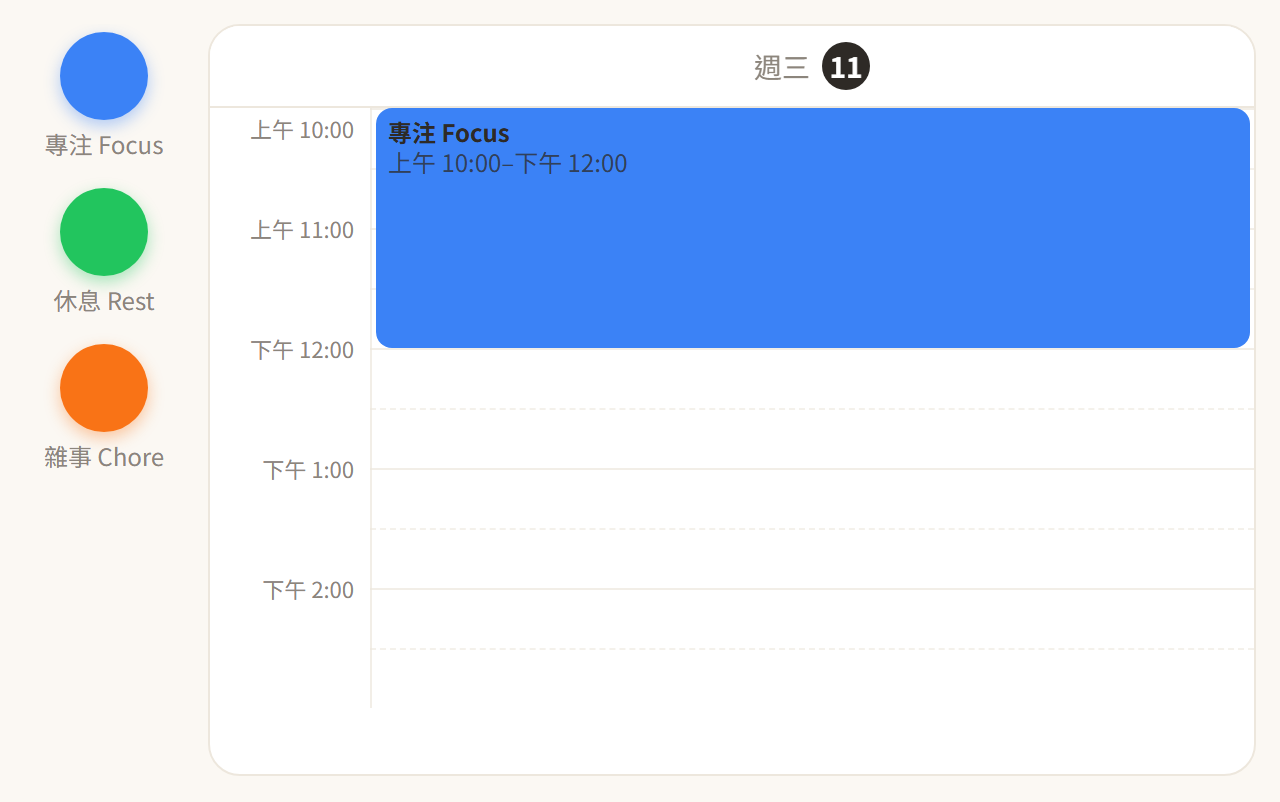
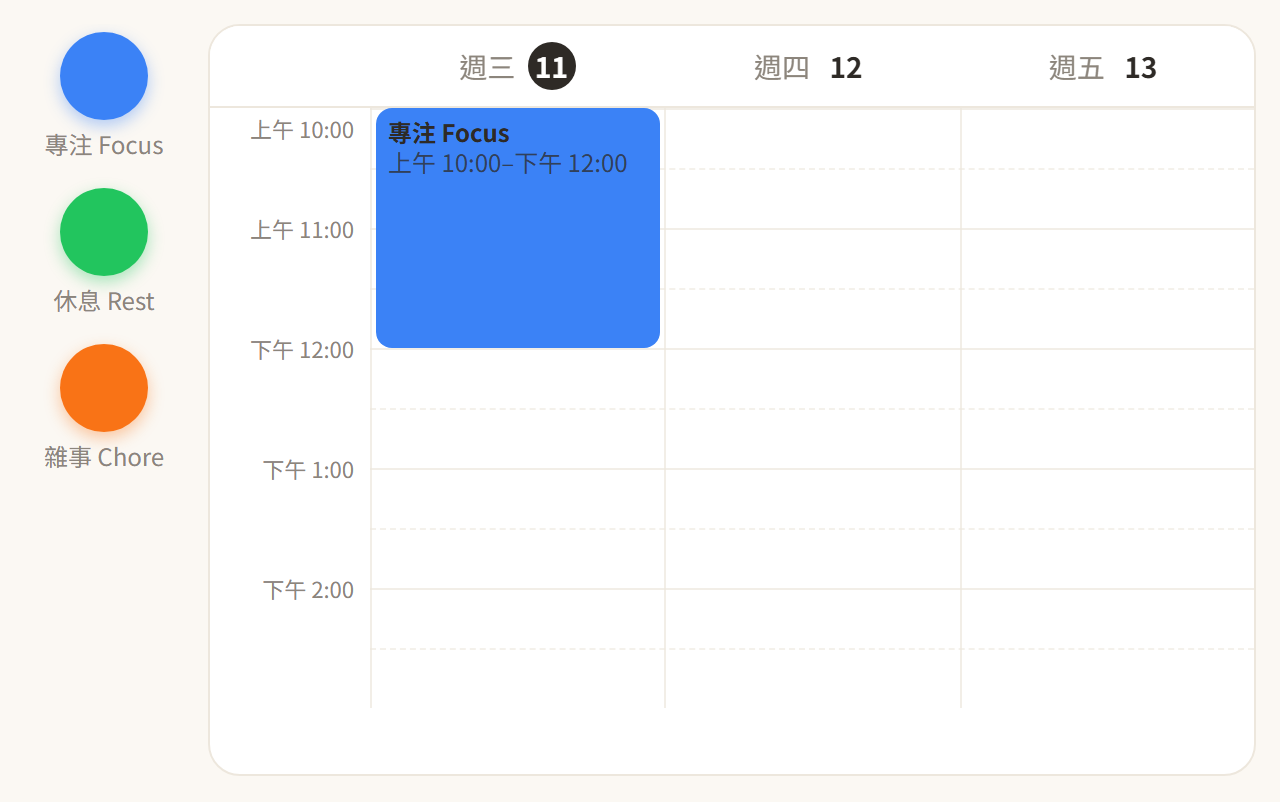
feat(trial): three-day calendar and language-based seed ball names
Owner decision 2026-11-11: the trial shows three consecutive days, each
10:00-15:00 (15 hours), not a week. English site seeds plain English ball names
(Focus, Rest, Chore); the Chinese site keeps the bilingual names. Names are
decided at initialization and do not change when the language is switched later.
settings.view becomes visibleDays: 3. Preview screenshots retaken.

Changed region(s): [[0.5, 0.0312, 1.0, 0.4364], [0.3438, 0.0312, 0.4688, 0.1247], [0.8125, 0.0623, 0.9062, 0.0935]]

diff --git a/src/trial/buildTrialWorkspace.ts b/src/trial/buildTrialWorkspace.ts
@@ -2,11 +2,14 @@
 // 注意：WorkspaceData 的正式型別與 templateSchema 由共用模組擁有（尚未可取得，見 issue 005 Blocked by）；
 // 這裡的本地型別只是暫時的結構描述，接入共用模組後改為匯入。
 // 種子名稱與色碼是占位（OR-12 待確認），不代表正式內容。
+import type { SiteLanguage } from '../site/webLanguageBackend';
+
 export type TrialSettings = {
   startHour: number;
   endHour: number;
   pixelsPerMinute: number;
-  view: 'week' | 'day';
+  /** 可見的日期欄數：專案擁有者 2026-11-11 決定三天（每天 10:00–15:00，共 15 小時），不開放到一週。 */
+  visibleDays: number;
   magnetEnabled: boolean;
   inspectorCollapsed: boolean;
 };
@@ -27,20 +30,28 @@ export type TrialWorkspace = {
   issues: never[];
 };
 
-export function buildTrialWorkspace(now: Date): TrialWorkspace {
+// 種子球名稱：中文版是中英並列，英文版純英文（專案擁有者 2026-11-11）。名稱在初始化時決定，之後切換網站語言不會改名，
+// 因為球名是使用者資料（FR-10）；重新整理後依當時的語言重新決定。
+const SEED_NAMES: Record<SiteLanguage, readonly [string, string, string]> = {
+  'zh-TW': ['專注 Focus', '休息 Rest', '雜事 Chore'],
+  en: ['Focus', 'Rest', 'Chore'],
+};
+
+export function buildTrialWorkspace(now: Date, language: SiteLanguage = 'zh-TW'): TrialWorkspace {
+  const [focus, rest, chore] = SEED_NAMES[language];
   return {
     meta: { name: 'trial', createdAt: now.toISOString() },
     templates: [
-      { id: 'focus', name: '專注 Focus', color: '#3B82F6', defaultDuration: 120, order: 0 },
-      { id: 'rest', name: '休息 Rest', color: '#22C55E', defaultDuration: 120, order: 1 },
-      { id: 'chore', name: '雜事 Chore', color: '#F97316', defaultDuration: 120, order: 2 },
+      { id: 'focus', name: focus, color: '#3B82F6', defaultDuration: 120, order: 0 },
+      { id: 'rest', name: rest, color: '#22C55E', defaultDuration: 120, order: 1 },
+      { id: 'chore', name: chore, color: '#F97316', defaultDuration: 120, order: 2 },
     ],
     events: {},
     settings: {
       startHour: 10,
       endHour: 15,
       pixelsPerMinute: 1,
-      view: 'day',
+      visibleDays: 3,
       magnetEnabled: true,
       inspectorCollapsed: false,
     },

diff --git a/tests/buildTrialWorkspace.test.ts b/tests/buildTrialWorkspace.test.ts
@@ -2,16 +2,17 @@ import { describe, expect, it } from 'vitest';
 import { buildTrialWorkspace } from '../src/trial/buildTrialWorkspace';
 
 // 預期值為 SDS DATA-02 的字面常數，不呼叫實作去算。
-// TC-01a（試用區初始畫面：單日、10:00–15:00）｜FR-01、INV-05、DATA-02
+// TC-01a（試用區初始畫面：三天、每天 10:00–15:00）｜FR-01、INV-05、DATA-02
+// 契約變更（專案擁有者 2026-11-11）：從單日改為三天（15 小時），不開放到一週。
 describe('TC-01a buildTrialWorkspace settings (FR-01, INV-05, DATA-02)', () => {
-  it('uses the fixed single-day 10:00–15:00 settings at default zoom with magnet on', () => {
+  it('uses the fixed three-day 10:00–15:00 settings at default zoom with magnet on', () => {
     const workspace = buildTrialWorkspace(new Date(2026, 10, 10, 9, 30));
 
     expect(workspace.settings).toEqual({
       startHour: 10,
       endHour: 15,
       pixelsPerMinute: 1,
-      view: 'day',
+      visibleDays: 3,
       magnetEnabled: true,
       inspectorCollapsed: false,
     });
@@ -43,5 +44,20 @@ describe('TC-01a buildTrialWorkspace seed (FR-01, DATA-01, DATA-03, INV-07)', ()
     expect(workspace.issues).toEqual([]);
     expect(workspace.meta.name).toBe('trial');
     expect(buildTrialWorkspace(new Date(Date.UTC(2026, 10, 10, 1, 30))).meta.createdAt).toBe('2026-11-10T01:30:00.000Z');
+  });
+});
+
+// 專案擁有者 2026-11-11：英文版種子球名稱是純英文；中文版維持中英並列。
+describe('seed ball names by language', () => {
+  const now = new Date(2026, 10, 10, 9, 30);
+
+  it('defaults to the Traditional Chinese bilingual names', () => {
+    expect(buildTrialWorkspace(now).templates.map((t) => t.name)).toEqual(['專注 Focus', '休息 Rest', '雜事 Chore']);
+  });
+
+  it('uses plain English names for the English site', () => {
+    const { templates } = buildTrialWorkspace(now, 'en');
+    expect(templates.map((t) => t.name)).toEqual(['Focus', 'Rest', 'Chore']);
+    expect(templates.map((t) => t.id)).toEqual(['focus', 'rest', 'chore']);
   });
 });

diff --git a/src/components/TrialSection.tsx b/src/components/TrialSection.tsx
@@ -1,16 +1,23 @@
-import { useEffect, useState, useSyncExternalStore } from 'react';
+import { useEffect, useRef, useState, useSyncExternalStore } from 'react';
 import { useSiteLanguage } from '../site/LanguageContext';
+import type { SiteLanguage } from '../site/webLanguageBackend';
 import { connectGate } from '../trial/connectGate';
 import { createTrialLoader, type TrialLoader } from '../trial/trialLoader';
 
 // 動態 import：不符合互動資格時不會被呼叫，所以不會請求這個 chunk（FR-08、NFR-05）。
-const defaultLoader = () => createTrialLoader({ loadModule: () => import('../trial/trialModule').then((m) => m.default) });
+const defaultLoader = (getLanguage: () => SiteLanguage) =>
+  createTrialLoader({ loadModule: () => import('../trial/trialModule').then((m) => m.default), getLanguage });
 
 // UI-02／UI-03：互動資格成立且載入完成 → 試用；否則 → 靜態預覽容器（不可拖曳或點擊）。
 // loading／dormant／preview 都顯示預覽；載入中專用畫面與失敗文案未定（MOD-02）。
 export function TrialSection({ loader: injected }: { loader?: TrialLoader }) {
-  const { copy } = useSiteLanguage();
-  const [loader] = useState<TrialLoader>(() => injected ?? defaultLoader());
+  const { copy, language } = useSiteLanguage();
+  // 載入器初始化試用的當下才讀語言（種子球名稱用）；之後切換語言不會改名（FR-10）。
+  const languageRef = useRef(language);
+  useEffect(() => {
+    languageRef.current = language;
+  }, [language]);
+  const [loader] = useState<TrialLoader>(() => injected ?? defaultLoader(() => languageRef.current));
   const phase = useSyncExternalStore(loader.subscribe, loader.getPhase, loader.getPhase);
 
   useEffect(() => (injected ? undefined : connectGate(loader)), [loader, injected]);

diff --git a/scripts/capturePreviewImages.ts b/scripts/capturePreviewImages.ts
@@ -1,7 +1,8 @@
 // issue 010：從「實際運作的互動版」截靜態預覽圖，中英各一張。不是仿真圖。
 // 用法（先啟動預覽：npm run build && npm run preview，另一個終端機再跑）：
 //   PLAYWRIGHT_BROWSERS_PATH=<瀏覽器位置> node scripts/capturePreviewImages.ts
-// 畫面：W1 1280×800、單日 10:00–15:00、三顆種子球、一個 10:00–12:00 的區塊。種子名稱與色碼若改了（OR-12），要重截。
+// 畫面：W1 1280×800、三天（每天 10:00–15:00）、三顆種子球、第一天一個 10:00–12:00 的區塊。種子名稱與色碼若改了（OR-12），要重截。
+// 英文版的種子球名稱是純英文（依初始化當下的網站語言決定）。
 import { chromium } from '@playwright/test';
 import { mkdirSync } from 'node:fs';
 
@@ -26,10 +27,10 @@ try {
     const ball = await page.getByTestId('template-ball').first().boundingBox();
     const columns = await page.getByTestId('calendar-columns').boundingBox();
     if (!ball || !columns) throw new Error('trial UI not visible');
-    // 放在欄的最上緣：磁吸後起點 10:00，預設長度 120 分鐘 → 10:00–12:00。
+    // 放在第一天（三欄的第一欄）的最上緣：磁吸後起點 10:00，預設長度 120 分鐘 → 10:00–12:00。
     await page.mouse.move(ball.x + ball.width / 2, ball.y + ball.height / 2);
     await page.mouse.down();
-    await page.mouse.move(columns.x + columns.width / 2, columns.y + 2, { steps: 12 });
+    await page.mouse.move(columns.x + columns.width / 6, columns.y + 2, { steps: 12 });
     await page.mouse.up();
     await page.getByTestId('event-block').waitFor();
     await page.mouse.move(0, 0); // 移開游標，避免懸停樣式

diff --git a/src/trial/trialLoader.ts b/src/trial/trialLoader.ts
@@ -1,11 +1,12 @@
 // MOD-02：TrialLoader（FR-08、NFR-05）。不依賴 DOM 的狀態機；React 只負責顯示（TrialSection）。
 import type { ComponentType } from 'react';
+import type { SiteLanguage } from '../site/webLanguageBackend';
 
 export type TrialPhase = 'preview' | 'loading' | 'active' | 'dormant';
 
 export type TrialModule = {
   /** 初始化試用（只在第一次成功；之後再呼叫應直接返回）。 */
-  ensureReady(): Promise<void>;
+  ensureReady(options?: { language?: SiteLanguage }): Promise<void>;
   TrialShell: ComponentType;
 };
 
@@ -16,7 +17,11 @@ export type TrialLoader = {
   setInteractive(value: boolean): void;
 };
 
-export function createTrialLoader(deps: { loadModule: () => Promise<TrialModule> }): TrialLoader {
+export function createTrialLoader(deps: {
+  loadModule: () => Promise<TrialModule>;
+  /** 初始化當下的網站語言（決定種子球名稱）；沒給就用預設。 */
+  getLanguage?: () => SiteLanguage;
+}): TrialLoader {
   let phase: TrialPhase = 'preview';
   let module: TrialModule | null = null;
   const listeners = new Set<() => void>();
@@ -38,7 +43,7 @@ export function createTrialLoader(deps: { loadModule: () => Promise<TrialModule>
       const loaded = imported ?? (imported = await deps.loadModule());
       // 載入中資格又變假：不初始化、不掛載。
       if (!interactive) return;
-      await loaded.ensureReady();
+      await loaded.ensureReady(deps.getLanguage ? { language: deps.getLanguage() } : undefined);
       if (!interactive) return;
       module = loaded;
       setPhase('active');

diff --git a/e2e/trialLayout.e2e.ts b/e2e/trialLayout.e2e.ts
@@ -1,0 +1,30 @@
+import { expect, test } from '@playwright/test';
+
+// 專案擁有者 2026-11-11：試用是三天（每天 10:00–15:00，共 15 小時），不開放到一週；
+// 種子球名稱依初始化當下的網站語言：英文版純英文，中文版中英並列；初始化後切換語言不改名（FR-10）。
+test.describe('trial layout and seed names', () => {
+  test.use({ locale: 'en-US', viewport: { width: 1280, height: 900 } });
+
+  test('English site: three days, five hour labels, plain English ball names that stay after switching language', async ({ page }) => {
+    await page.goto('/');
+    await expect(page.getByTestId('trial-app')).toBeVisible();
+
+    await expect(page.getByTestId('day-header')).toHaveCount(3);
+    await expect(page.getByTestId('day-column')).toHaveCount(3);
+    await expect(page.getByTestId('timeline-label')).toHaveCount(5);
+    await expect(page.getByTestId('template-name')).toHaveText(['Focus', 'Rest', 'Chore']);
+
+    await page.getByRole('button', { name: '繁體中文' }).click();
+    await expect(page.getByTestId('template-name')).toHaveText(['Focus', 'Rest', 'Chore']);
+  });
+});
+
+test.describe('Traditional Chinese site', () => {
+  test.use({ locale: 'zh-TW', viewport: { width: 1280, height: 900 } });
+
+  test('bilingual ball names', async ({ page }) => {
+    await page.goto('/');
+    await expect(page.getByTestId('trial-app')).toBeVisible();
+    await expect(page.getByTestId('template-name')).toHaveText(['專注 Focus', '休息 Rest', '雜事 Chore']);
+  });
+});

diff --git a/tests/trialApp.test.tsx b/tests/trialApp.test.tsx
@@ -6,7 +6,7 @@ import type { SiteLanguage } from '../src/site/webLanguageBackend';
 import trialModule from '../src/trial/trialModule';
 import { TrialApp } from '../src/trial/ui/TrialApp';
 
-// 試用區的靜態標記：三顆球、單日 10:00–15:00 的時間軸、沒有區塊。互動（長按、拖曳）由 tests/trialGestures.test.ts 的狀態機測試
+// 試用區的靜態標記：三顆球、三天、每天 10:00–15:00 的時間軸、沒有區塊。互動（長按、拖曳）由 tests/trialGestures.test.ts 的狀態機測試
 // 與瀏覽器實測（issue 005／006 的實作紀錄）驗證；這裡不模擬 DOM 事件。
 async function render(language: SiteLanguage): Promise<string> {
   const store = createSiteLanguageStore({
@@ -60,8 +60,11 @@ describe('TrialApp markup', () => {
     expect(html).not.toContain('拖到日曆上');
   });
 
-  it('is a single day: one day header', async () => {
+  // 契約變更（專案擁有者 2026-11-11）：三天，每天 10:00–15:00，不開放到一週。
+  it('shows three days: three day headers and three day columns', async () => {
     const html = await render('zh-TW');
-    expect(html.match(/data-testid="day-header"/g)).toHaveLength(1);
+    expect(html.match(/data-testid="day-header"/g)).toHaveLength(3);
+    expect(html.match(/data-testid="day-column"/g)).toHaveLength(3);
+    expect(html.match(/data-testid="timeline-label"/g)).toHaveLength(5); // 時間軸只有一條，每天同一段 10:00–15:00
   });
 });

diff --git a/src/trial/trialRuntime.ts b/src/trial/trialRuntime.ts
@@ -1,5 +1,6 @@
 // MOD-03：TrialRuntime.ensureReady（INV-02）。store 以介面注入；接入共用模組時傳入 useAppStore.getState()。
 // 尚未實作的步驟 2（共用 i18n 與網站語言一致，INV-10）需要共用模組，待 016／017。
+import type { SiteLanguage } from '../site/webLanguageBackend';
 import { buildTrialWorkspace, type TrialWorkspace } from './buildTrialWorkspace';
 
 export type TrialStorePort = {
@@ -12,11 +13,12 @@ export function createTrialRuntime(deps: { store: TrialStorePort; now: () => Dat
   let inflight: Promise<void> | null = null;
 
   return {
-    ensureReady(): Promise<void> {
+    /** language：只在第一次成功初始化時使用（決定種子球名稱）；之後的呼叫直接返回。 */
+    ensureReady(options: { language?: SiteLanguage } = {}): Promise<void> {
       if (ready) return Promise.resolve();
       inflight ??= Promise.resolve()
         .then(() => {
-          deps.store.hydrate(buildTrialWorkspace(deps.now()), 'memory:trial');
+          deps.store.hydrate(buildTrialWorkspace(deps.now(), options.language), 'memory:trial');
           deps.store.goToday();
           ready = true;
         })

diff --git a/src/trial/ui/TrialApp.tsx b/src/trial/ui/TrialApp.tsx
@@ -31,8 +31,12 @@ export function TrialApp() {
   const scrollerRef = useRef<HTMLDivElement>(null);
   const columnsRef = useRef<HTMLDivElement>(null);
 
-  const days = useMemo(() => [startOfDay(new Date(state.anchor))], [state.anchor]);
-  const { startHour, endHour, pixelsPerMinute } = state.settings;
+  const { startHour, endHour, pixelsPerMinute, visibleDays } = state.settings;
+  // 從示範日起連續幾天（專案擁有者 2026-11-11：三天，每天 10:00–15:00）。用本地日期加一天，不用 24 小時，避免日光節約。
+  const days = useMemo(() => {
+    const first = startOfDay(new Date(state.anchor));
+    return Array.from({ length: visibleDays }, (_, i) => new Date(first.getFullYear(), first.getMonth(), first.getDate() + i));
+  }, [state.anchor, visibleDays]);
   const timeline = useMemo<TimelineConfig>(() => ({ startHour, endHour, pixelsPerMinute }), [startHour, endHour, pixelsPerMinute]);
   const templates = useMemo(() => Object.values(state.templates).sort((a, b) => a.order - b.order), [state.templates]);
   const timeFormat = useMemo<TimeFormatOptions>(

diff --git a/tests/trialRuntime.test.ts b/tests/trialRuntime.test.ts
@@ -16,9 +16,20 @@ describe('INV-02 TrialRuntime.ensureReady (FR-07, MOD-03)', () => {
 
     expect(store.hydrate).toHaveBeenCalledTimes(1);
     expect(store.hydrate.mock.calls[0]![1]).toBe('memory:trial');
-    expect(store.hydrate.mock.calls[0]![0].settings.view).toBe('day');
+    expect(store.hydrate.mock.calls[0]![0].settings.visibleDays).toBe(3);
     expect(store.goToday).toHaveBeenCalledTimes(1);
     expect(store.hydrate.mock.invocationCallOrder[0]!).toBeLessThan(store.goToday.mock.invocationCallOrder[0]!);
+  });
+
+  it('seeds the ball names from the language of the first call only', async () => {
+    const store = fakeStore();
+    const runtime = createTrialRuntime({ store, now });
+
+    await runtime.ensureReady({ language: 'en' });
+    await runtime.ensureReady({ language: 'zh-TW' });
+
+    expect(store.hydrate).toHaveBeenCalledTimes(1);
+    expect(store.hydrate.mock.calls[0]![0].templates.map((t: { name: string }) => t.name)).toEqual(['Focus', 'Rest', 'Chore']);
   });
 
   it('does not hydrate again on repeated or concurrent calls', async () => {

diff --git a/tests/trialLoader.test.ts b/tests/trialLoader.test.ts
@@ -152,3 +152,21 @@ describe('TrialLoader failure path (MOD-02)', () => {
     expect(loader.getPhase()).toBe('active');
   });
 });
+
+// 專案擁有者 2026-11-11：種子球名稱依初始化當下的網站語言決定。
+describe('TrialLoader passes the site language to ensureReady (seed ball names)', () => {
+  it('reads the language when the module is initialized, not when the loader is created', async () => {
+    let language: 'zh-TW' | 'en' = 'zh-TW';
+    const seen: unknown[] = [];
+    const loader = createTrialLoader({
+      loadModule: async () => ({ TrialShell: () => null, ensureReady: async (options) => void seen.push(options) }),
+      getLanguage: () => language,
+    });
+
+    language = 'en';
+    loader.setInteractive(true);
+    await flush();
+
+    expect(seen).toEqual([{ language: 'en' }]);
+  });
+});

diff --git a/tests/trialStore.test.ts b/tests/trialStore.test.ts
@@ -15,11 +15,11 @@ function ready() {
 }
 
 describe('trial store', () => {
-  it('starts empty: three seed balls, no events, 10:00–15:00 single day (FR-01)', () => {
+  it('starts empty: three seed balls, no events, 10:00–15:00 each day (FR-01)', () => {
     const state = ready().getState();
     expect(Object.keys(state.templates)).toEqual(['focus', 'rest', 'chore']);
     expect(state.events).toEqual({});
-    expect(state.settings).toMatchObject({ startHour: 10, endHour: 15, pixelsPerMinute: 1, view: 'day', magnetEnabled: true });
+    expect(state.settings).toMatchObject({ startHour: 10, endHour: 15, pixelsPerMinute: 1, visibleDays: 3, magnetEnabled: true });
   });
 
   it('goToday sets the demo day to the local today from the injected clock', () => {
